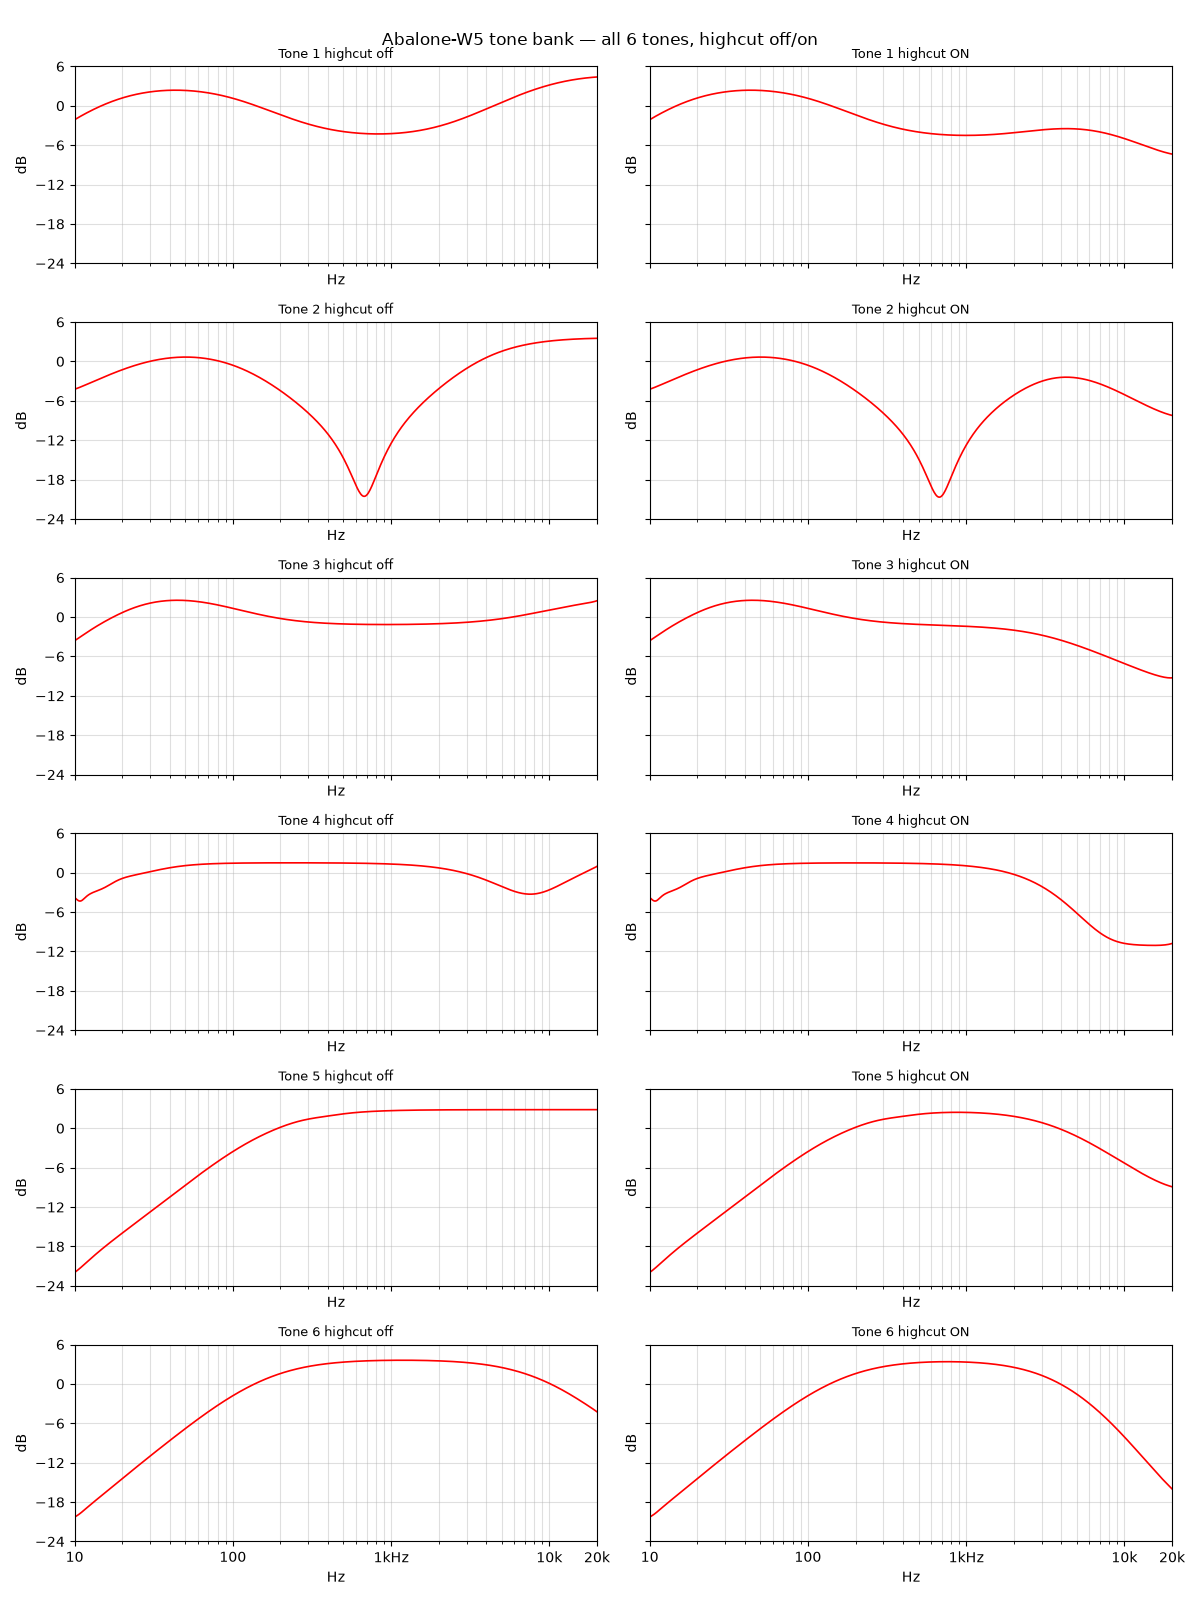
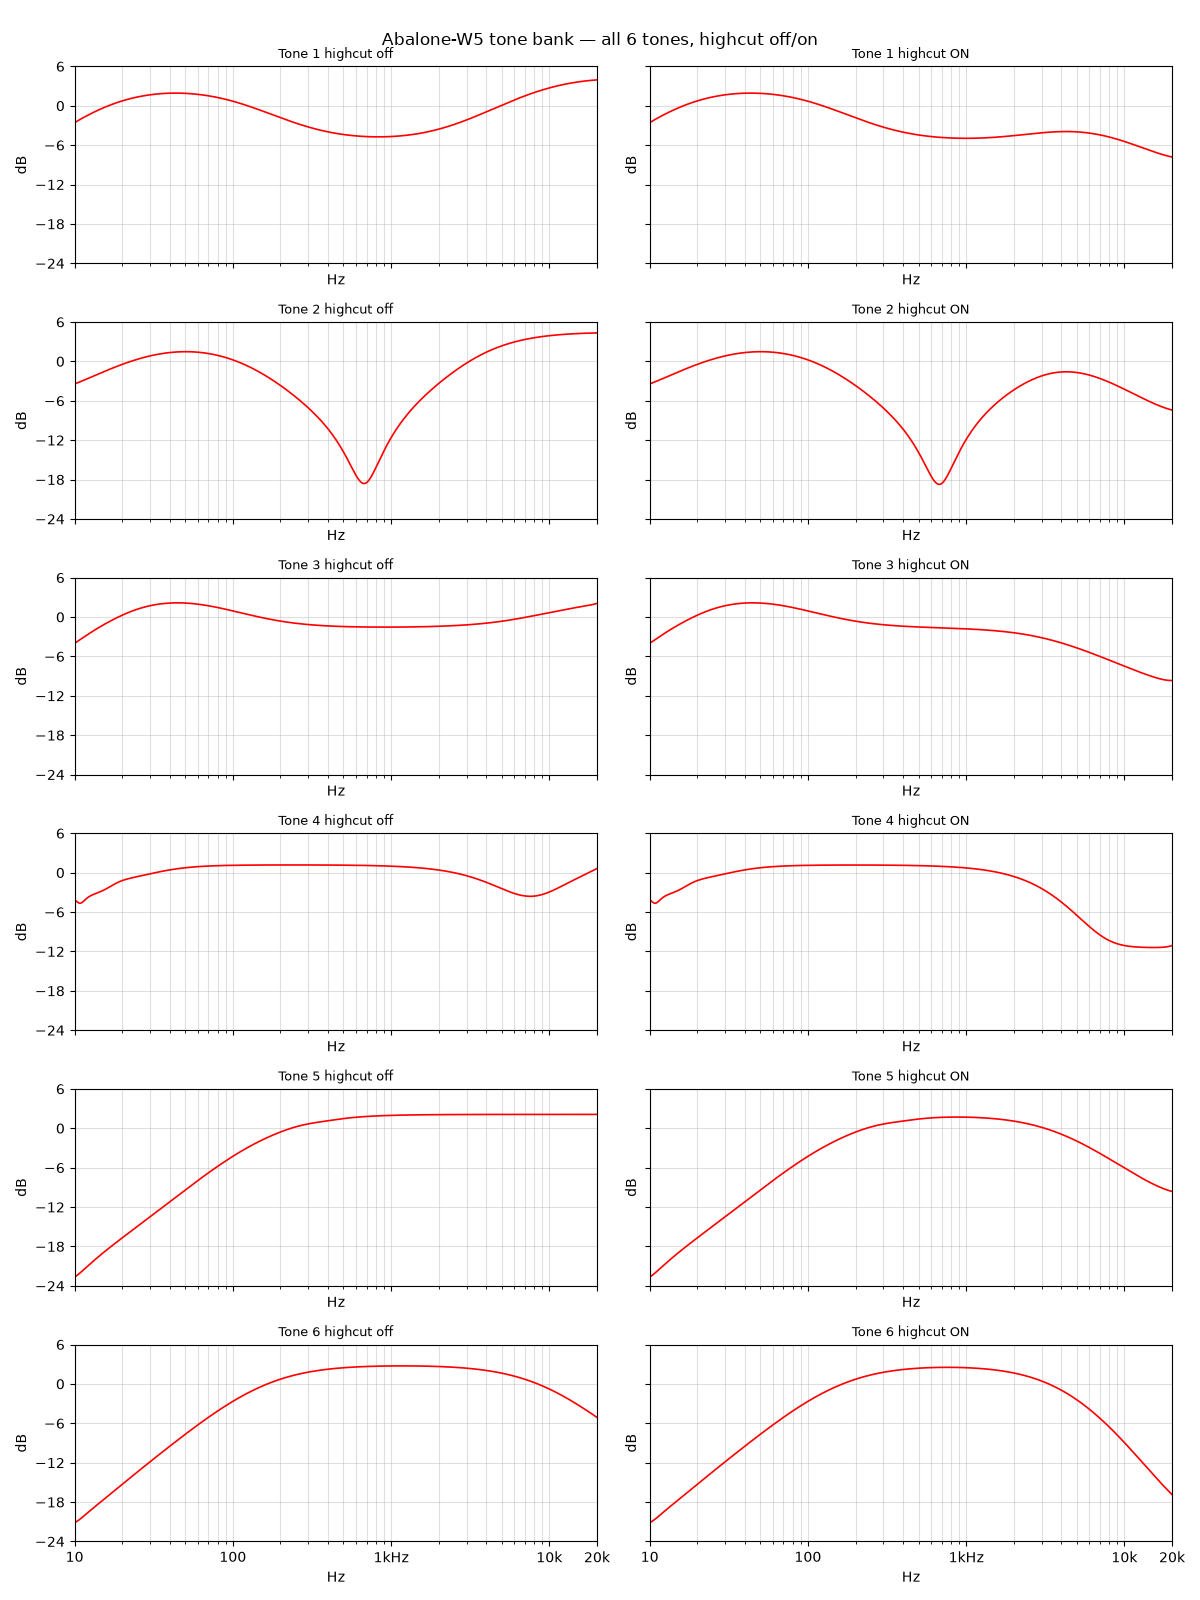
dsp: T2 micro-fit, pink-flat staging, anchor re-pin, stale-script fixes

diff --git a/analysis/ir_check.py b/analysis/ir_check.py
@@ -78,8 +78,8 @@ TONE_PARAMS = {
     13: ("pk", 316.362377, 0.156875, 8.244914),
     14: ("hs", 4282.69202, 0.472141, 7.93173),
     15: ("pk", 35.227056, 0.495389, 2.057284),
-    20: ("pk", 729.990772, 0.399998, -7.043765),
-    21: ("pk", 678.226926, 1.43118, -12.582057),
+    20: ("pk", 729.990772, 0.399998, -7.0),
+    21: ("pk", 678.226926, 1.3, -11.5),
     22: ("ls", 5.0, 1.2, 9.375711),
     23: ("pk", 54.514871, 0.280132, 5.812911),
     24: ("pk", 1813.7874, 0.503095, -2.166755),
@@ -110,7 +110,7 @@ TONE_PARAMS = {
 
 # Overall per-tone gain (dB); mirrors ToneBank::toneGainDb. The cascade
 # coefficients already carry per-section gains — this is the global staging.
-TONE_GAIN = {1: -3.4872, 2: -4.8591, 3: 4.4248, 4: 0.7784, 5: 2.6038, 6: 5.3969}
+TONE_GAIN = {1: -3.9308, 2: -4.0374, 3: 4.0325, 4: 0.4536, 5: 1.8810, 6: 4.5376}
 
 
 def num_sections(tone):
@@ -206,7 +206,7 @@ def chain_db(tone, freq_hz, fs=48000.0, highcut=False):
 # (re-pointed 2026-10-11 to fit8 + pink staging; the sweep leg carries every
 # tone, so these are fit residuals, not staging offsets).
 # ----------------------------------------------------------------------------
-CXX_EITHER_REF_DB = {1: 0.02, 2: 0.58, 3: 0.27, 4: 0.11, 5: 0.24, 6: 0.02}
+CXX_EITHER_REF_DB = {1: 0.02, 2: 0.34, 3: 0.27, 4: 0.11, 5: 0.24, 6: 0.02}
 PORT_VERIFY_TOL_DB = 0.05
 
 

diff --git a/tests/ToneBankTest.cpp b/tests/ToneBankTest.cpp
@@ -707,11 +707,12 @@ void checkAbsoluteAnchors ()
     // drift into the reference; the gains then restored shipped staging.
     // PINK STAGING 2026-10-11 (user ruling: gain in = gain out on pink
     // noise): toneGainDb now level-matches broadband pink in/out, so the
-    // anchors move to the pink absolute levels (shapes unchanged):
-    // T1 -2.13, T2 -4.25 (gate 1.0 ? float32 shelf warp at 5 Hz),
-    // T3 -3.61, T4 -3.79 (gate 1.2 ? 10 Hz shape miss, gain-invariant),
-    // T5 -21.96, T6 -20.27.
-    const float anchors[7] = {0.0f, -2.13f, -4.25f, -3.61f, -3.79f, -21.96f, -20.27f};
+    // anchors move to the pink absolute levels (shapes unchanged).
+    // Re-pinned 2026-10-11 after the final pink trim (measured absolute):
+    // T1 -2.52, T2 -3.08 (gate 1.0 ? float32 shelf warp at 5 Hz),
+    // T3 -3.99, T4 -4.19 (gate 1.2 ? 10 Hz shape miss, gain-invariant),
+    // T5 -22.78, T6 -21.15.
+    const float anchors[7] = {0.0f, -2.52f, -3.08f, -3.99f, -4.19f, -22.78f, -21.15f};
     for (int tone = 1; tone <= 6; ++tone)
     {
         ToneBank bank;

diff --git a/src/dsp/ToneBank.h b/src/dsp/ToneBank.h
@@ -158,17 +158,17 @@ struct ToneBank
         switch (tone)
         {
         case 1:
-            return -3.4872f;
+            return -3.9308f;
         case 2:
-            return -4.8591f;
+            return -4.0374f;
         case 3:
-            return 4.4248f;
+            return 4.0325f;
         case 4:
-            return 0.7784f;
+            return 0.4536f;
         case 5:
-            return 2.6038f;
+            return 1.8810f;
         case 6:
-            return 5.3969f;
+            return 4.5376f;
         default:
             break;
         }
@@ -288,9 +288,9 @@ private:
         case 15:
             return {Type::Peak, 35.227056, 0.495389, 2.057284};
         case 20:
-            return {Type::Peak, 729.990772, 0.399998, -7.043765};
+            return {Type::Peak, 729.990772, 0.399998, -7.0};
         case 21:
-            return {Type::Peak, 678.226926, 1.4, -11.2};
+            return {Type::Peak, 678.226926, 1.3, -11.5};
         case 22:
             return {Type::LowShelf, 5.0, 1.2, 9.375711};
         case 23:

diff --git a/analysis/circuit_trace/plot_tone_curves.py b/analysis/circuit_trace/plot_tone_curves.py
@@ -20,8 +20,8 @@ PARAMS = {
         ("pk", 316.362377, 0.156875, 8.244914),
         ("hs", 4282.69202, 0.472141, 7.93173),
         ("pk", 35.227056, 0.495389, 2.057284)],
-    2: [("pk", 729.990772, 0.399998, -7.043765),
-        ("pk", 678.226926, 1.43118, -12.582057),
+    2: [("pk", 729.990772, 0.399998, -7.0),
+        ("pk", 678.226926, 1.3, -11.5),
         ("ls", 5.0, 1.2, 9.375711),
         ("pk", 54.514871, 0.280132, 5.812911),
         ("pk", 1813.7874, 0.503095, -2.166755),
@@ -49,7 +49,7 @@ PARAMS = {
         ("pk", 21998.938, 0.537264, -0.739306),
         ("pk", 10.033716, 2.32244, -0.90871)],
 }
-GAIN = {1: -3.4872, 2: -4.8591, 3: 4.4248, 4: 0.7784, 5: 2.6038, 6: 5.3969}
+GAIN = {1: -3.9308, 2: -4.0374, 3: 4.0325, 4: 0.4536, 5: 1.8810, 6: 4.5376}
 GRID = np.logspace(np.log10(10), np.log10(20000), 600)
 
 
